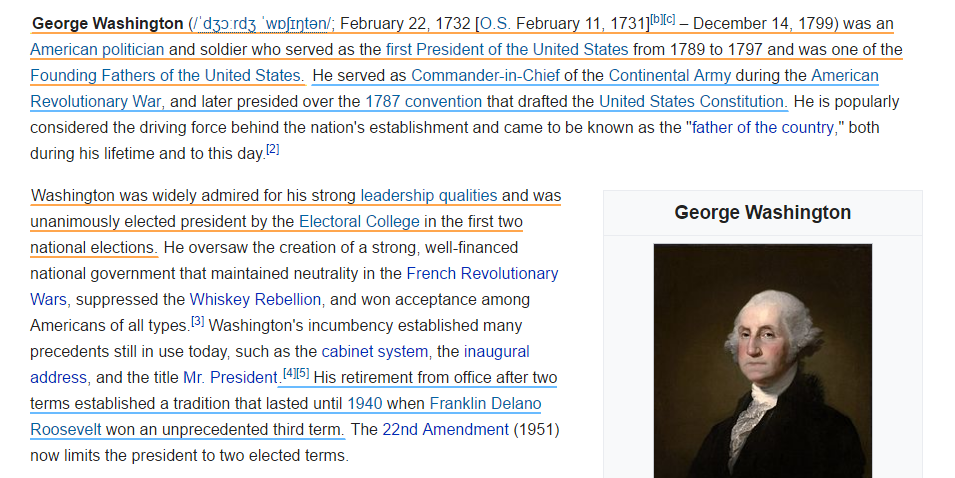
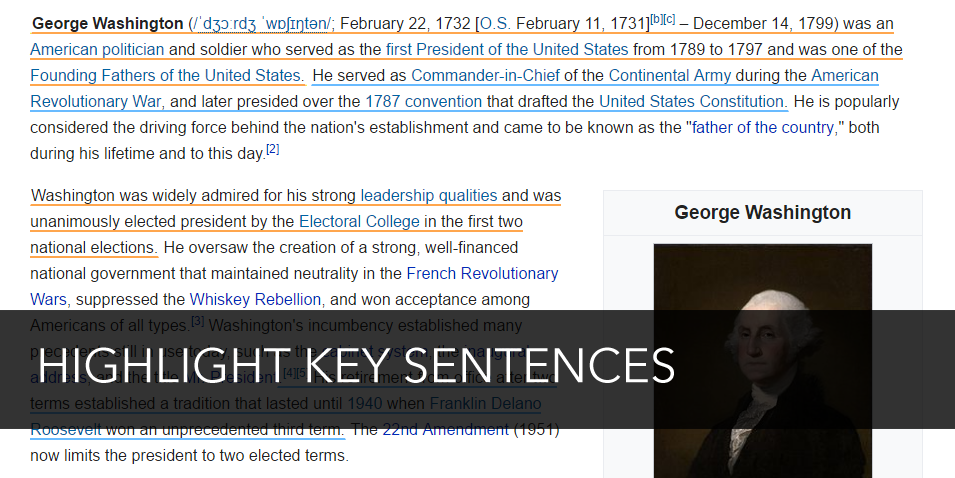
Image for index.html

Changed region(s): [[0.0, 0.6444, 1.0, 0.9079]]

diff --git a/abridge/index.html b/abridge/index.html
@@ -47,7 +47,7 @@
 				Install for Google Chrome
 				</div>
 			</div>
-			<img class="image_section" src="img/sample1.png">
+			<img class="image_section" id="main_image" src="img/sample1.png">
 		</div>
 		
 		<div class="middle">
@@ -110,6 +110,19 @@
 				x.className = "navbar";
 			}
 		}
+		
+		var i = 2;
+		
+		function changeImage(){
+			document.getElementById("main_image").src = "img/sample" + i + ".png";
+			i += 1;
+			if( i > 4 ){
+				i = 1;
+			}
+			
+			setTimeout(changeImage, 5000);
+		}
+		setTimeout(changeImage, 5000);
 		</script>
 	</body>
 </html>
